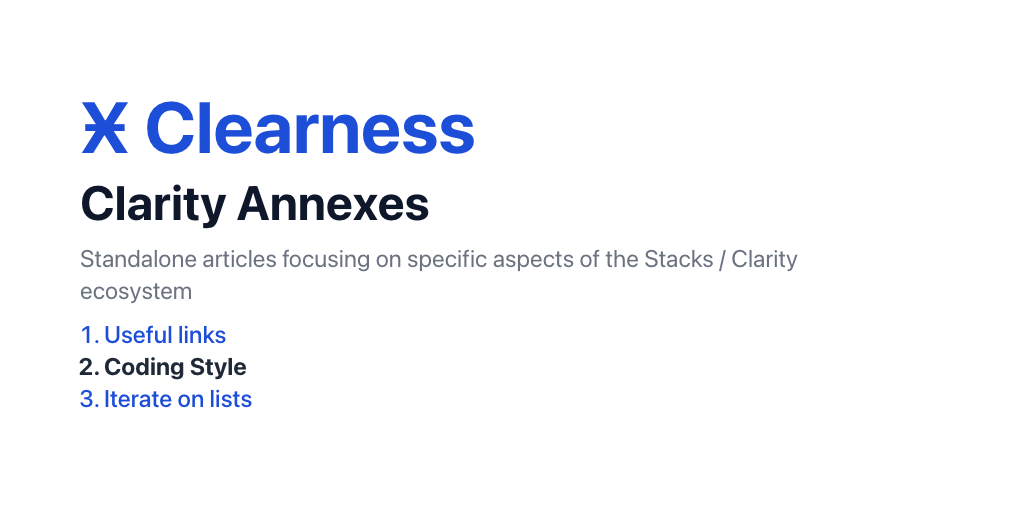
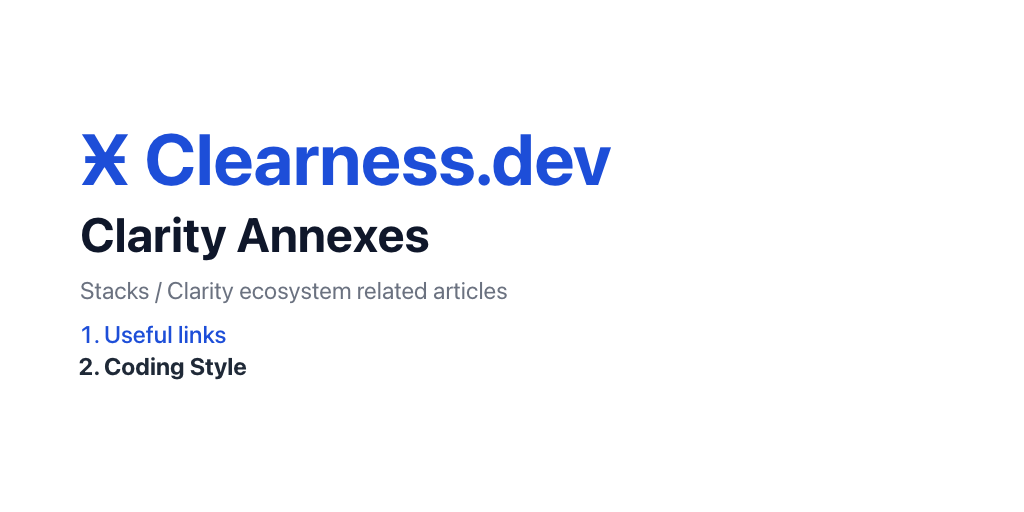
improve title and og images

Changed region(s): [[0.0625, 0.1875, 0.7812, 0.5938], [0.0625, 0.75, 0.25, 0.8125]]

diff --git a/tests/app.test.ts b/tests/app.test.ts
@@ -13,7 +13,9 @@ test.use({ baseURL: 'http://localhost:3011' })
 test.describe('home page', async () => {
   test('has the right head data', async ({ page }) => {
     await page.goto('/')
-    await expect(page.locator(sel.title)).toHaveText('Clearness')
+    await expect(page.locator(sel.title)).toHaveText(
+      'Clearness - Learn Clarity, build Smart Contracts on Bitcoin',
+    )
     await expect(page.locator(sel.canonical)).toHaveAttribute('href', base)
     await expect(page.locator(sel.ogUrl)).toHaveAttribute('content', base)
   })

diff --git a/app/routes/index.tsx b/app/routes/index.tsx
@@ -23,7 +23,7 @@ export const headers: HeadersFunction = () => {
 }
 
 export const meta: MetaFunction = ({ data }) => {
-  const title = 'Clearness'
+  const title = 'Clearness - Learn Clarity, build Smart Contracts on Bitcoin'
   const description =
     'Learn to code Smart Contracts on Bitcoin thanks to Stacks and the Clarity Language. Learn Web3, DAO, NFT etc'
 

diff --git a/app/components/og-img.tsx b/app/components/og-img.tsx
@@ -8,7 +8,7 @@ type Props = {
 }
 
 const Title = () => (
-  <h1 className="text-7xl !font-bold mb-4 text-blue-700">Ӿ Clearness</h1>
+  <h1 className="text-7xl !font-bold mb-4 text-blue-700">Ӿ Clearness.dev</h1>
 )
 
 const Container = ({ children }: { children: JSX.Element[] | JSX.Element }) => (
